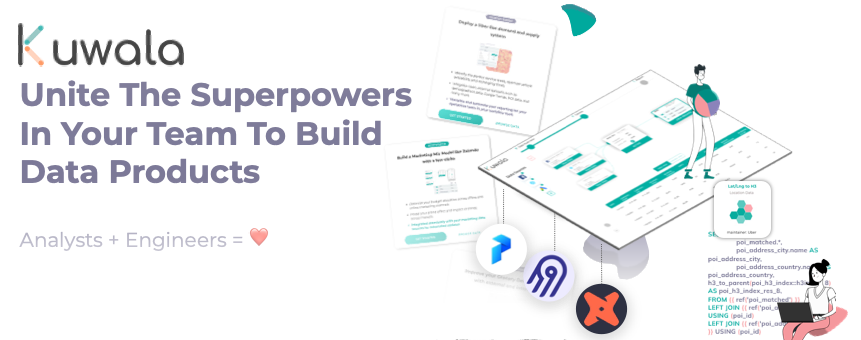
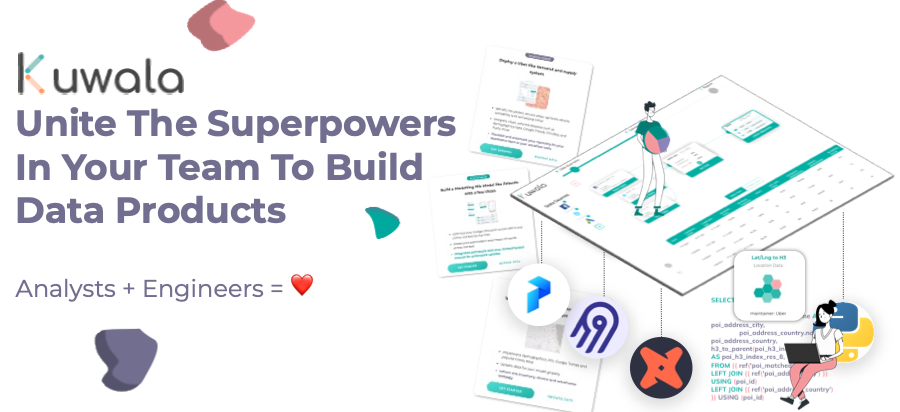
Added the complaint points
- added non transparent picture
- fixed the markdown file

diff --git a/README.md b/README.md
@@ -1,10 +1,5 @@
----
-editor_options: 
-  markdown: 
-    wrap: 72
----
-
 [![Slack](https://img.shields.io/badge/slack-chat-orange.svg)](https://join.slack.com/t/kuwala-community/shared_invite/zt-l5b2yjfp-2cdhReNACXDkLhuh0jFzZw)
+
 ![License](https://img.shields.io/github/license/kuwala-io/kuwala)
 
 ![](docs/images/header_github_kuwala_new.png)
@@ -162,9 +157,9 @@ for further information on how to get involved.
 # Get more content about Kuwala
 
 | Link                                                                                                                                                                                                            | Description                                                                                                                          |
-|-----------------------------------------------------------------------------------------------------------------------------------------------------------------------------------------------------------------|--------------------------------------------------------------------------------------------------------------------------------------|
+|--------------------------------------------|----------------------------|
 | [Blog](https://kuwala.io/blog/)                                                                                                                                                                                 | Read all our blog articles related to the stuff we are doing here.                                                                   |
-| [Join Slack](https://join.slack.com/t/kuwala-community/shared_invite/zt-l5b2yjfp-2cdhReNACXDkLhuh0jFzZw)                                                                                                        | Our Slack channel with over 170 data engineers and many discussions.                                                                 |
+| [Join Slack](https://join.slack.com/t/kuwala-community/shared_invite/zt-l5b2yjfp-2cdhReNACXDkLhuh0jFzZw)                                                                                                        | Our Slack channel with over 250 data engineers and many discussions.                                                                 |
 | [Jupyter notebook - Popularity correlation](https://mybinder.org/v2/gh/kuwala-io/kuwala_examples/1def41ded01dbb67ecada9dc227c834cd93d0721?urlpath=lab%2Ftree%2Fnotebooks%2F1.%20Popularity%20Correlation.ipynb) | Open a Jupyter notebook on Binder and merge external popularity data with Uber traversals by making use of convenient dbt functions. |
 | [Podcast](https://anchor.fm/kuwala-io)                                                                                                                                                                          | Listen to our community podcast and maybe join us on the next show.                                                                  |
 | [Digital coffee break](https://calendly.com/kuwala_io/kuwala-community-chat?month=2022-02)                                                                                                                      | Are you looking for new inspiring tech talks? Book a digital coffee chit-chat with one member of the core team.                      |
